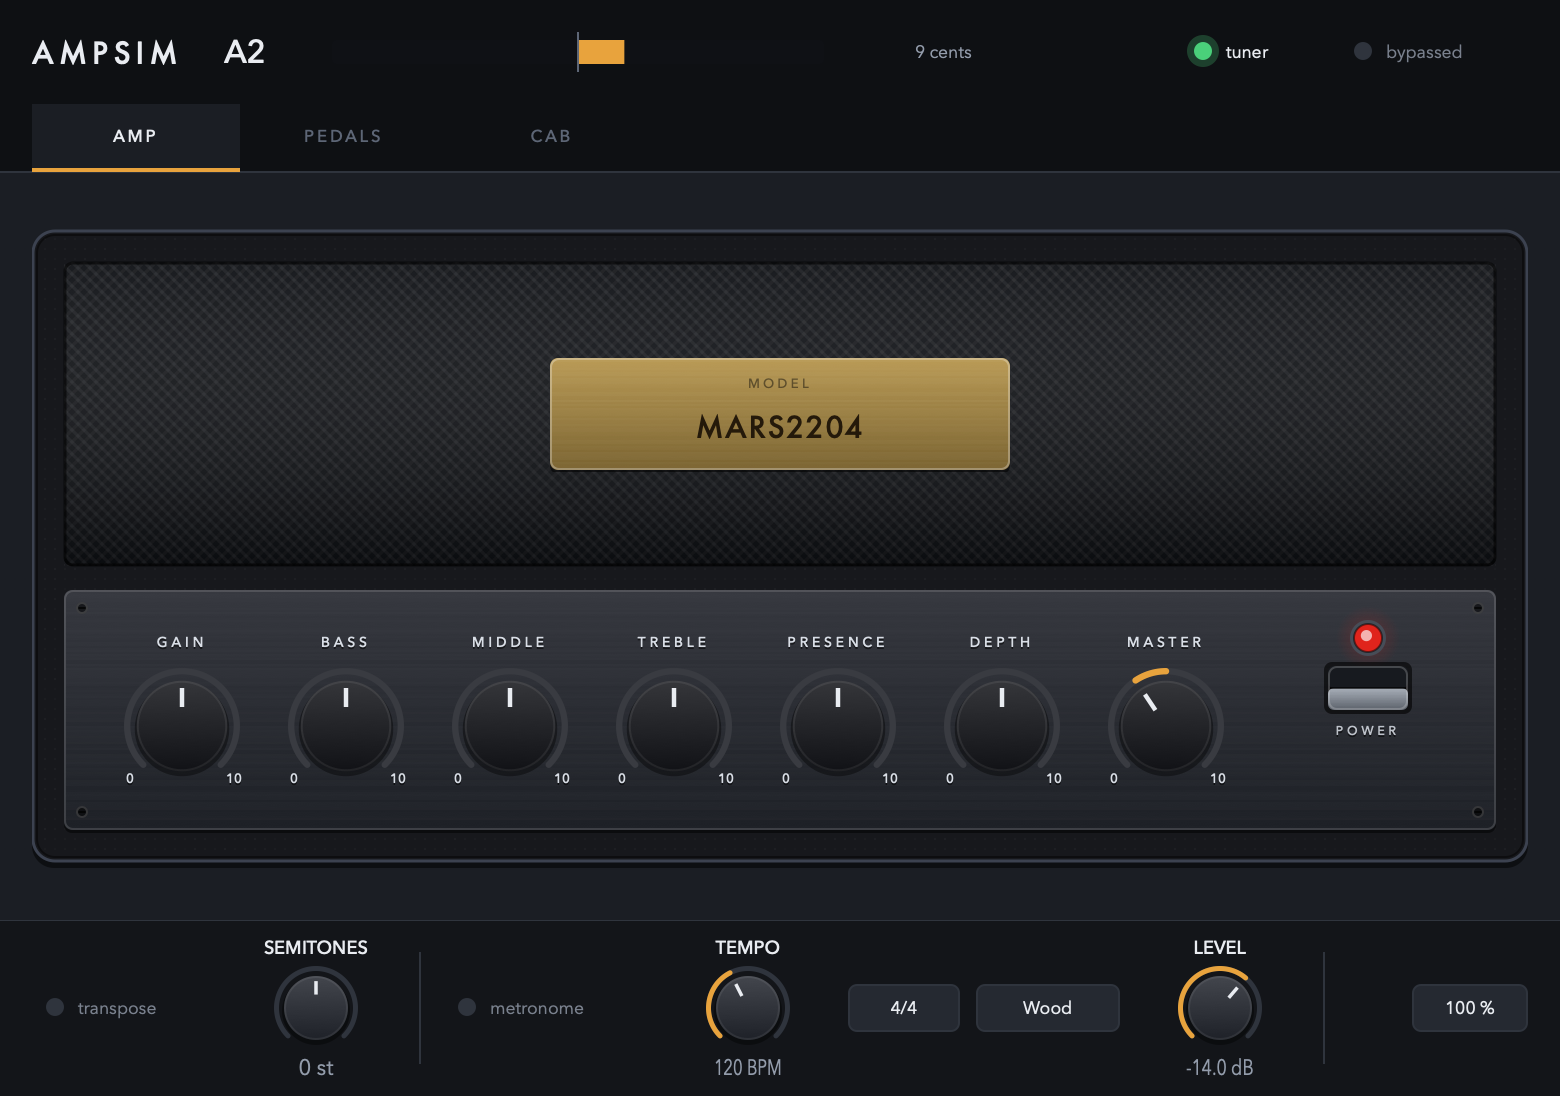
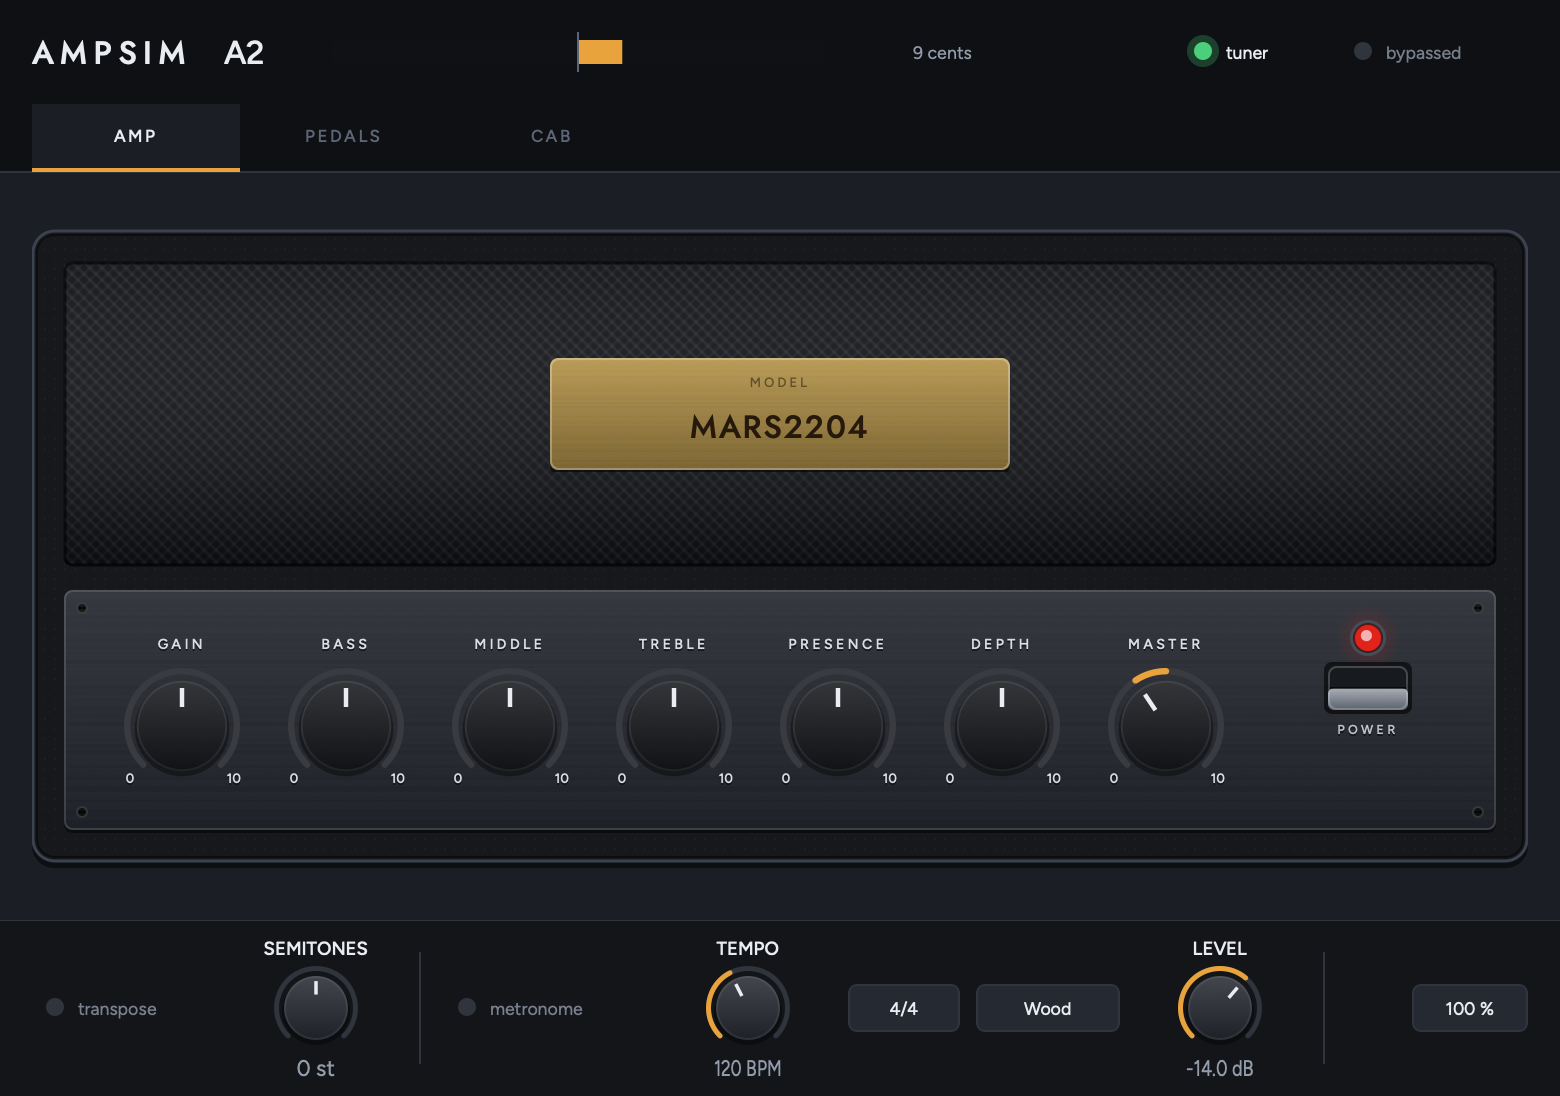
Regenerate the guide's screenshots with the new typefaces
The snapshot tool now writes every screenshot the guide uses, under the
guide's own names: the three pages, the amp switched off, the slots holding
the overdrive and the phaser, and the tuner reading an A2 nine cents sharp
from a sine fed through the processor. Each starts from the Default preset
with an editor of its own. `ampsim_snapshot docs/images 2` reproduces them.

The layout is unchanged, so the guide's hotspots still line up.

diff --git a/tools/PanelSnapshot.cpp b/tools/PanelSnapshot.cpp
@@ -9,18 +9,21 @@
 */
 
 /*
-    Renders each page of the panel to a PNG, so the panel can be looked at rather than reasoned
-    about. CLAUDE.md asks for that after any change to the panel. This is also how the Windows
-    build's panel gets seen without a Windows machine: CI runs it and uploads the images.
+    Renders the panel to PNGs, so it can be looked at rather than reasoned about. CLAUDE.md asks
+    for that after any change to the panel. CI runs it on Windows and uploads the images, and at
+    the guide's scale it writes the guide's own screenshots:
 
         ampsim_snapshot [output directory] [scale]
+        ampsim_snapshot docs/images 2           # regenerates every screenshot in the user guide
 
-    It drives the real editor with the built-in amp and cab loaded, as a fresh instance has them,
-    and switches pages through the tab buttons' own click handlers.
+    Each shot starts from the Default preset with the built-in amp and cab, as a fresh instance
+    has them, sets what it needs, and gets an editor of its own, since the editor reads some
+    state (whether the tuner is showing) only when it is made.
 */
 #include "PluginEditor.h"
 #include "PluginProcessor.h"
 
+#include <functional>
 #include <iostream>
 
 namespace
@@ -30,16 +33,24 @@ namespace
         juce::MessageManager::getInstance()->runDispatchLoopUntil (milliseconds);
     }
 
-    void waitForModel (AmpSimAudioProcessor& processor)
+    void processSilence (AmpSimAudioProcessor& processor, int blocks)
     {
         juce::AudioBuffer<float> buffer (2, 512);
         juce::MidiBuffer midi;
 
+        for (int i = 0; i < blocks; ++i)
+        {
+            buffer.clear();
+            processor.processBlock (buffer, midi);
+        }
+    }
+
+    void waitForModel (AmpSimAudioProcessor& processor)
+    {
         for (int i = 0; i < 400 && ! processor.isModelLoaded(); ++i)
         {
             runMessageLoop (25);
-            buffer.clear();
-            processor.processBlock (buffer, midi);
+            processSilence (processor, 1);
         }
     }
 
@@ -53,6 +64,53 @@ namespace
             findTabs (*child, tabs);
         }
     }
+
+    void set (AmpSimAudioProcessor& processor, const char* id, float value)
+    {
+        if (auto* p = processor.getValueTreeState().getParameter (id))
+            p->setValueNotifyingHost (p->convertTo0to1 (value));
+    }
+
+    void choose (AmpSimAudioProcessor& processor, const char* id, const juce::String& choice)
+    {
+        if (auto* p = processor.getValueTreeState().getParameter (id))
+            p->setValueNotifyingHost (p->getValueForText (choice));
+    }
+
+    /** A plucked open A string, nine cents sharp, fed through the processor while the editor's
+        timer reads the tuner — which is where the reading on the tuner shot comes from. */
+    void playA2 (AmpSimAudioProcessor& processor)
+    {
+        constexpr double rate = 48000.0;
+        const auto frequency = 110.0 * std::pow (2.0, 9.0 / 1200.0);
+
+        juce::AudioBuffer<float> buffer (2, 512);
+        juce::MidiBuffer midi;
+        double phase = 0.0;
+
+        for (int block = 0; block < 120; ++block)
+        {
+            for (int i = 0; i < buffer.getNumSamples(); ++i)
+            {
+                const auto x = (float) (0.3 * std::sin (phase) + 0.1 * std::sin (2.0 * phase));
+                phase += juce::MathConstants<double>::twoPi * frequency / rate;
+
+                for (int ch = 0; ch < buffer.getNumChannels(); ++ch)
+                    buffer.setSample (ch, i, x);
+            }
+
+            processor.processBlock (buffer, midi);
+            runMessageLoop (10);
+        }
+    }
+
+    struct Shot
+    {
+        const char* name;
+        int tab;
+        std::function<void (AmpSimAudioProcessor&)> setUp;
+        std::function<void (AmpSimAudioProcessor&)> whileOpen;
+    };
 }
 
 int main (int argc, char** argv)
@@ -73,25 +131,51 @@ int main (int argc, char** argv)
     processor.prepareToPlay (48000.0, 512);
     waitForModel (processor);
 
-    std::unique_ptr<juce::AudioProcessorEditor> editor (processor.createEditor());
-    runMessageLoop (200);
-
-    juce::Array<TabButton*> tabs;
-    findTabs (*editor, tabs);
-
-    if (tabs.isEmpty())
+    const Shot shots[]
     {
-        std::cerr << "No tabs found on the editor\n";
-        return 1;
-    }
+        { "amp",    0, {}, {} },
+        { "pedals", 1, {}, {} },
+        { "cab",    2, {}, {} },
+        { "amp-off", 0, [] (auto& p) { set (p, ParamID::power, 0.0f); }, {} },
+        { "pedals-variants", 1, [] (auto& p) { choose (p, ParamID::dirtType, "Overdrive");
+                                               choose (p, ParamID::modulationType, "Phaser"); }, {} },
+        { "tuner",  0, [] (auto& p) { set (p, ParamID::tunerOn, 1.0f); }, playA2 },
+    };
 
-    for (auto* tab : tabs)
+    for (const auto& shot : shots)
     {
-        tab->onClick();
+        if (const auto error = processor.getPresets().load ("Default"); error.isNotEmpty())
+        {
+            std::cerr << "Could not load the Default preset: " << error << "\n";
+            return 1;
+        }
+
+        if (shot.setUp)
+            shot.setUp (processor);
+
+        processSilence (processor, 20);
+        runMessageLoop (100);
+
+        std::unique_ptr<juce::AudioProcessorEditor> editor (processor.createEditor());
         runMessageLoop (200);
 
+        juce::Array<TabButton*> tabs;
+        findTabs (*editor, tabs);
+
+        if (! juce::isPositiveAndBelow (shot.tab, tabs.size()))
+        {
+            std::cerr << "No tab " << shot.tab << " on the editor\n";
+            return 1;
+        }
+
+        tabs[shot.tab]->onClick();
+        runMessageLoop (200);
+
+        if (shot.whileOpen)
+            shot.whileOpen (processor);
+
         const auto image = editor->createComponentSnapshot (editor->getLocalBounds(), true, scale);
-        const auto file = outputDirectory.getChildFile ("panel-" + tab->getButtonText().toLowerCase() + ".png");
+        const auto file = outputDirectory.getChildFile (juce::String (shot.name) + ".png");
 
         file.deleteFile();
         juce::FileOutputStream stream (file);
@@ -104,8 +188,10 @@ int main (int argc, char** argv)
         }
 
         std::cout << file.getFullPathName() << " (" << image.getWidth() << " x " << image.getHeight() << ")\n";
+
+        editor.reset();
+        runMessageLoop (50);
     }
 
-    editor.reset();
     return 0;
 }

diff --git a/CLAUDE.md b/CLAUDE.md
@@ -256,6 +256,11 @@ scale button's shape pointed at a parameter, with the choices in a `PopupMenu`. 
 the panel's height, so a taller panel needs all of them scaled by the old height over the new one.
 `docs/guide/index.html` and `docs/images/` both have to be redone.
 
+**The guide's screenshots come from the snapshot tool**: `ampsim_snapshot docs/images 2`, from a
+Release build with `-DAMPSIM_BUILD_TOOLS=ON`, writes all six — the three pages, the amp switched
+off, the slots holding other pedals, and the tuner reading an A2 nine cents sharp. Regenerate them
+rather than editing them after any change that shows on the panel.
+
 `AmpMaterials` holds what the objects are *made of* — tolex, piping, grille cloth, brushed metal,
 brass — and draws a covered box, a grille and a control plate. The amp and the cab both use it, so
 the two pages read as parts of one rig. Those colours carry no meaning, unlike `AmpPalette`'s
